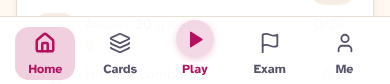
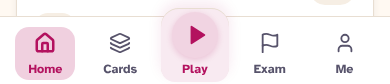
Play tab: taller raised panel above the bar with a bigger circle, bottoms and label line aligned with the other tabs (sizing idea from the owner's example, app colours kept)
Claude-Session: https://claude.ai/code/session_014raFFc24BExxTXZkZJ4HU5

Changed region(s): [[0.4, 0.0952, 0.5846, 0.6667]]

diff --git a/src/styles/global.css b/src/styles/global.css
@@ -1010,17 +1010,29 @@ h1[tabindex='-1']:focus, h2[tabindex='-1']:focus { outline: none; }
 /* light/dark switch in the top bar */
 .theme-toggle .icon { color: var(--gold-text, var(--text)); }
 :root[data-theme='dark'] .theme-toggle .icon { color: #FFD76A; }
-/* ===== center tab (Play): same size as the others, emphasised by a soft accent tile ===== */
+/* ===== center tab (Play) =====
+   Sizing idea: the middle tab is a taller panel that rises above the bar, with a bigger icon.
+   Bottoms and the label line match the other tabs; the extra size only grows upward.
+   Colours stay the app's own (soft accent tint, solid accent when current). */
+.nav-center { isolation: isolate; }
+.nav-center::before {
+  content: ''; position: absolute; z-index: -1;
+  left: 3px; right: 3px; top: calc(-14px * var(--text-scale)); bottom: 2px;
+  border-radius: 18px 18px 14px 14px;
+  background: color-mix(in srgb, var(--primary) 9%, var(--surface));
+  box-shadow: 0 -1px 0 var(--hairline), 0 -6px 14px color-mix(in srgb, var(--primary) 10%, transparent);
+}
+.nav-center.on::before { background: color-mix(in srgb, var(--primary) 16%, var(--surface)); }
 .nav-center-tile {
-  /* 38px circle in the 30px icon slot: same bottom as the other icons, the extra 8px grows upward only; label on the shared line */
-  display: grid; place-items: center; width: calc(38px * var(--text-scale)); height: calc(38px * var(--text-scale));
-  margin-top: calc(-8px * var(--text-scale));
-  border-radius: 50%; font-size: calc(19px * var(--text-scale));
+  /* 46px circle in the 30px icon slot: same bottom as the other icons, the extra 16px grows upward only */
+  display: grid; place-items: center; width: calc(46px * var(--text-scale)); height: calc(46px * var(--text-scale));
+  margin-top: calc(-16px * var(--text-scale));
+  border-radius: 50%; font-size: calc(22px * var(--text-scale));
+  background: color-mix(in srgb, var(--primary) 18%, var(--surface)); color: var(--primary);
   box-shadow: 0 2px 6px color-mix(in srgb, var(--primary) 18%, transparent);
-  background: color-mix(in srgb, var(--primary) 16%, transparent); color: var(--primary);
   transition: background var(--dur-quick), color var(--dur-quick);
 }
-.nav-center-tile .icon { translate: 1px 0; }
+.nav-center-tile .icon { translate: 2px 0; }
 .nav-center-label { font-weight: 800; color: var(--primary); }
 .nav-center.on .nav-center-tile { background: var(--primary); color: var(--on-primary); }
 /* ===== end center tab ===== */
